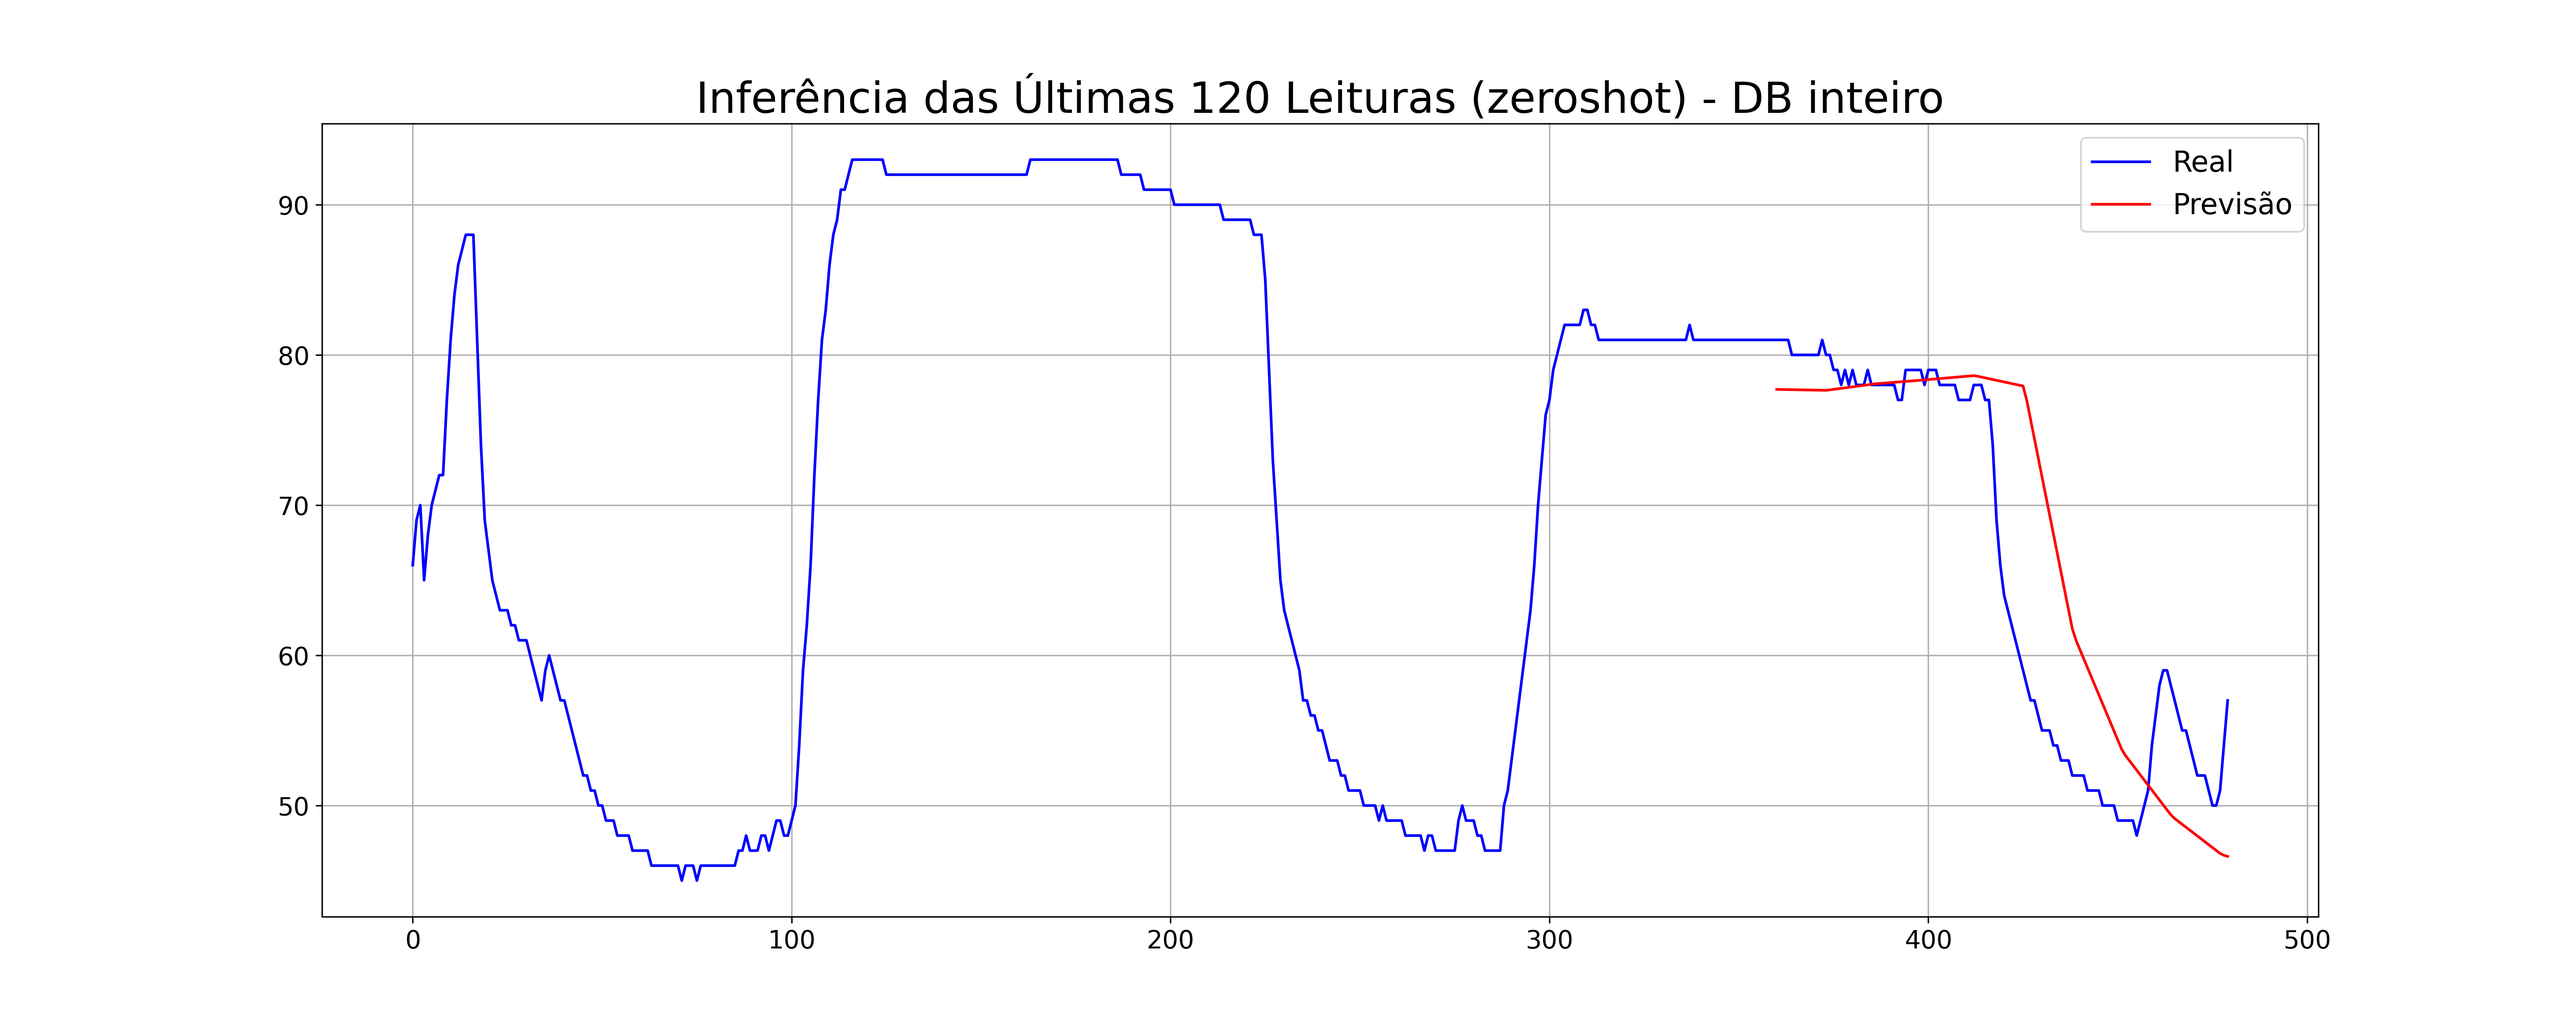
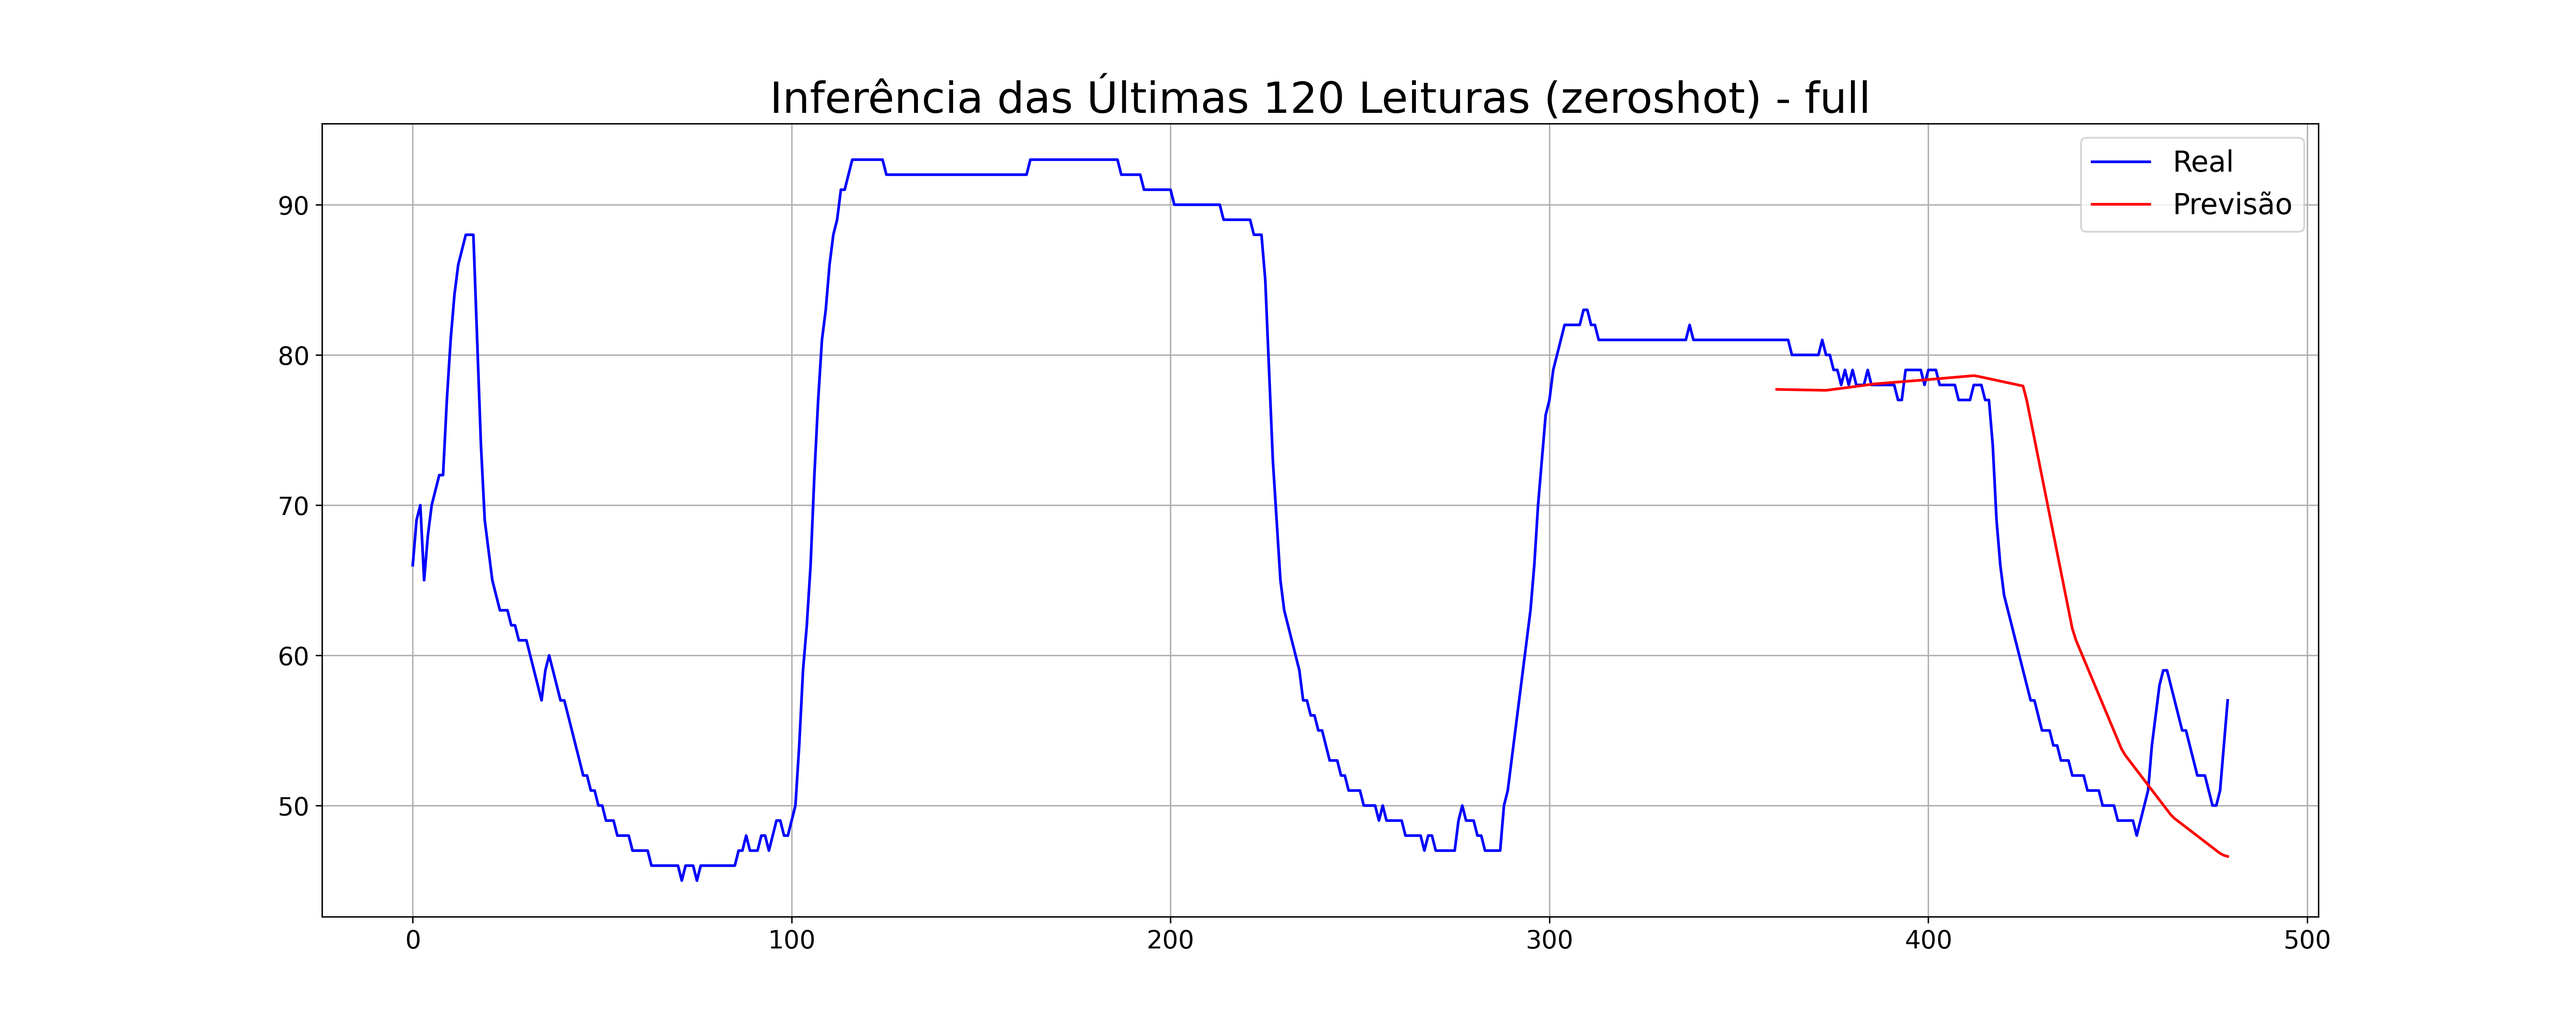
padronização dos testes

Changed region(s): [[0.2805, 0.0625, 0.748, 0.125]]

diff --git a/inferenceColab.py b/inferenceColab.py
@@ -101,7 +101,7 @@ def salvar_metricas_csv(nome_modelo, mse, rmse, tempos, picos_memoria, repeticoe
     'nome_modelo': [nome_modelo],
     'mse': [round(mse, 2)],
     'rmse': [round(rmse, 2)],
-    'tempo_consumo (ns)': [round(tempo_medio, 3)],
+    'tempo_consumo (s)': [round(tempo_medio, 3)],
     'desvio_tempo': [round(std_tempo, 3)],
     'memoria_consumo (mb)': [round(memoria_media, 4)],
     'memoria_max (mb)': [round(memoria_max, 4)],
@@ -171,7 +171,7 @@ def main(modelpath, qnt_alvo, input_type):
     atual, pico = tracemalloc.get_traced_memory()
     tracemalloc.stop()
 
-    tempos.append(fim - inicio)
+    tempos.append((fim - inicio) / (10 ** 9))
     picos_memoria.append(pico / (1024 ** 2))
 
     mse_i, rmse_i = calcular_mse_rmse(alvo, previstos)
@@ -185,8 +185,8 @@ def main(modelpath, qnt_alvo, input_type):
   mse_medio = mse / repeticoes
   rmse_medio = rmse / repeticoes
 
-  plotar_grafico(dados_plotagem, previstos, f"Inferência das Últimas {qnt_alvo} Leituras (zeroshot) - DB inteiro", f"{nome_modelo}.png")
-  salvar_metricas_csv(nome_modelo, mse_medio, rmse_medio, tempos, picos_memoria, repeticoes, f"metricas_{input_type}.csv")
+  plotar_grafico(dados_plotagem, previstos, f"Inferência das Últimas {qnt_alvo} Leituras (zeroshot) - {input_type}", f"{nome_modelo}.png")
+  salvar_metricas_csv(nome_modelo, mse_medio, rmse_medio, tempos, picos_memoria, repeticoes, f"metricas.csv")
   salvar_previsao_csv(nome_modelo, alvo, previstos, f"{nome_modelo}.csv")
 
 
